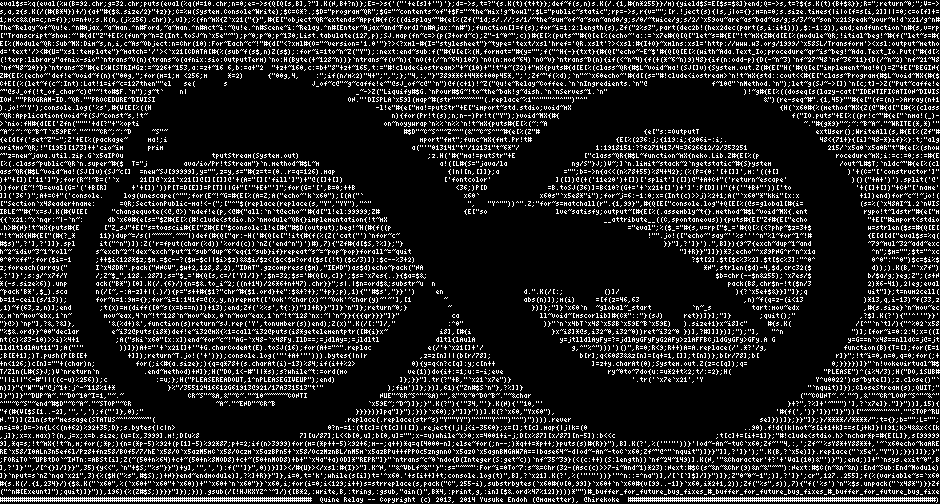
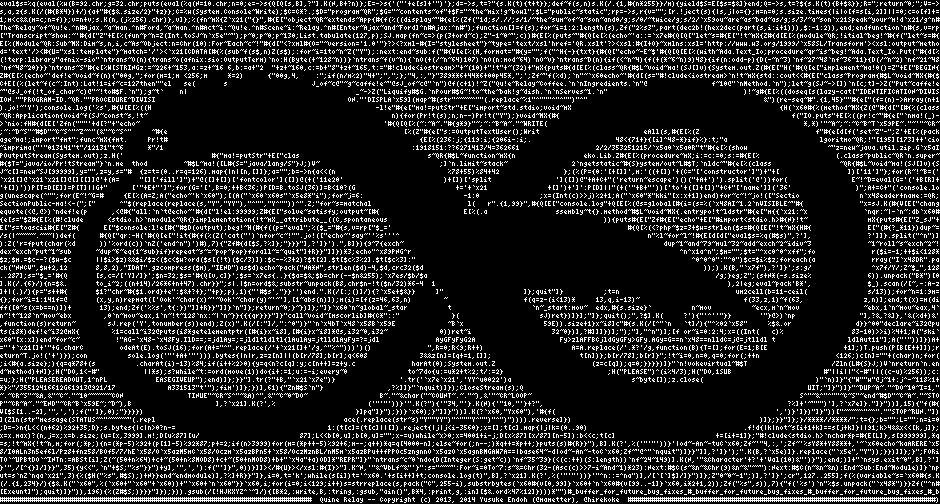
Replaced Flex with Fish

diff --git a/QR.rb b/QR.rb
@@ -13,51 +13,51 @@ C+E[(%(let~f(c~:Int):Lat!1=if~c=127then""el   se(       s                     J_
 ION.""PROGRAM-ID.~QR.""PROCEDURE~DIVISI                                                ON."'DISPLA`x59](map~#(str"~~~~^""(.replace~%1"^"""^"^"")"^"                                            &")(re-seq~#".{1,45}""#{e["(f=(n)->Array(n+1
 ).jo!~'Y');console.log('%s',#{V[E[%((H                                                        -l!e"#{e["ma!=putStr"+E["import~std.stdio;void~mX                                                    {H(`x60#{%(method~MX{Z(@"#{d["[#{%(class
 ~QR:Application{void~f(SJ~const~s,!t~                                                             n){for(Pr!t(s);n;n--)Pr!t("Y");}void~MX{#{                                                          f("IO.puts"+E[%((pr!c~"#{e["`nma!(_)-
->`nio:fH#{d[E['Zfn("""'+d[?"+"%opti                                                             on~noyywrap`n%%`n%%`n!t~mX{puts#{E[%(~:~A                                                                ~."#{g*9}"~;~:~B~A~."~WRITE(*,*)'"
-~A~;~:~C~B~T`x59PE~."~'"~CR~;~:~D     ~S"~                                                           #$D"~C~S^"~Z~^"(&"~C~S^"~#{e[%(Z"#                          {e["s:=OutputT                             extUser();WriteAll(s,#{E[%(Zf"#
-{e[d[f('set~Z"-";Z'+E[%(package~     ma!;i                                                               mport"fmt";func~mX{fmt.Pr!t#                     {E[%(236:j;{119:i;{206i-:i;.                       48<{71+}{[i]^48-*}if}%}:t;"alg
-oritmo~QR;!"[195][173]++'cio~im      prim                                                              a("'"013141"t"/12131"t~6*"/                   1:1918151:??6271413/4=3626612/2/353251                    215/`x5a0`x5a0R"t"#{e[%(show
-~"z=new~java.util.zip.G`x5aIPOu                      tputStream(System.out)                                ;z.H('#{"ma!=putStr"+E                 ["class~QR{#$L~function~mX{neko.Lib.Z#{E[%(p                   rocedure~mX;i:=c:=0;s:=#{E
-[%(.class~public~QR`n.super~#{$  T="j         ava/io/Pr!tStream"}`n.method~#$L~m                              a!([L#{S="java/la                ng/S"}J;)V~;]`n.limit~stack~2`ngetstatic~#{S}ystem                 /out~L#$T;`nldc~"#{e[%(cl
-ass~QR{#$L~void~ma!(SJ[]v){SJ~c[]  =new~SJ[99999],y="",z=y,s="#{z=t=(0..r=q=126).map                            {|n|[n,[]]};a                ="";b=->n{a<<(n%78+55)%84+42};(%(P={0:'[+[]]',m:'((+[]                 )'+(C="['constructor']"
-)+"+[])['11']"};for(R~!~B=('`x     21[]@`x21`x21[]@[][[]]@'+(A="[]['fill']")+"@([]+[])                         ['fontcolor'                ]([])@(+('11e20')+[])['split']([])@"+A+C+"('return~escape'                )()("+A+')').split('@'
-))for(E~!~D=eval(G='('+B[R]      +'+[])'))P[T=D[E]]=P[T]||G+"['"+E+"']";for(G='[',B=0;++B                         <36;)P[D               =B.toSJ(36)]=B<10?(G+='+`x21+[]')+']':P[D]||"(+('"+B+"'))['to                '+([]+[])"+C+"['name'
-]]('36')";A+=C+"('console.     log(unescape(^"";for(E~!~G=#{E[%(A=Z;A("echo~'k`x60");[(A("`                         x60`               x60s"`x5e8*"i");for~j=6:-1:0;x=(Int(c)>>j)%2+1;A("`x60"*"kki"[x:x               +1])end)for~c~!~jo!(
-["Section`x48eader+name:      =QR;SectionPublic-ma!<-(";["^"$(replace(replace(s,"Y","YY"),"^"                        ",   "Y^""))^".Z;"for~s=matchall(r".{1,99}",#{Q[E["console.log"+Q[E[%(@s=global[#{i=              (s=%(`x48AI~1.2`nVIS
-IBLE~"#{"x=sJ.K(#{V[E[      "changequote(<@,@>)`ndef!e(p,<@#{"all:`n`t@echo~'#{d["l!el:99999;Z#                     {E["so                 lve~satisfy;output~[#{E[%(.assembly~t{}.method~#$L~void~MX{.ent              rypo!t~ldstr"#{e["m
-{{`x21:~x`nqr:~|-`n~:      db`x60#{e[s="$Z#{E[%(#!clude<stdio.h>`nmodule~QR{}implementation{!t~mX                                                      __attribute__((C,spontaneous)){puts#{E["Zf#{E["echo               "+E["#import<stdio
-.h>#{N}!t~mX{puts#{E      ["Z_sJ"+E["s=toascii#{E["Z#{E["$console:l!e[#{"#$D(output);beg!~H(#{f((p                                                           ="eval";%($_="#{s,v=rp["$_='#{Q[%(<?php~$z=3+$              w=strlen($s=#{Q[E[
-"!t~mX{H#{E["(#{?_*      11})dup~=/s(|~~~~~.~~~|)def(#{Q["qr:-H('#{Q[e["!it{#{f(%(Z('cat("')`nfor~c~                                                              !"".jo!(["echo~'say~''%s'''^n"%l~for~l~!#              {E[d[d["eval$s=%q(
-#$s)",?'],?']]}.spl      it("^n")]):Z('r=fput(char(%d))'%ord(c))`nZ('end^n")')#),7){"Zf#{d[$S,?%]};"}                                                                 }}"],?']}').",B]}){9~7{exch~dup~1~and              ~79~mul~32~add~exc
-h~2~idiv~3~1~roll~      s~exch~2~!dex~exch~put~1~sub~dup~6~eq{1~sub}if}repeat~s~=~pop~pop}forall~=~quit                                                                   "]+R}}"]]})*3;echo"^x89PNG^r^n^x1a              ^n";$m="";$t="^xc
-0^0^xff";for($i=-1      ;++$i<128*$z;$m.=$c--?($w-$c||$i>$z)&&$i/$z<($c<$w?ord($s[(!t)($c/3)]):$c--%3+2)                                                                     ?$t[2].$t[$c%3%2].$t[$c%3]:"^0^              0^0":"^0")$c=$i%$
-z;foreach(array("       I`x48DR".pack("NNCV",$w+2,128,8,2),"IDAT".gzcompress($m),"IEND")as$d)echo~pack("NA                                                                      *N",strlen($d)-4,$d,crc32($               d));).K(B,"`x7f")
-,?']}';s:g/^x7f/Y       /;Z~$_",128..287];s="$_='#{Q[s,c=/['Y]/]}';$n=32;$s='#{Q[v,c]}';$s=`x7es{..}{$a=$&;                                                                        $b=chr(--$n&255);`x7es/$              b/$a/g;}eg;Z";(s+N
-*(-s.size%6)).unp       ack("B*")[0].K(/.{6}/){n=$&.to_i~2;((n+14)/26*6+n+47).chr}}";s|.|$n=ord$&;substr~u  n                                                                         pack(B8,chr$n-!t($n/3              2)*6-41),2|eg;eval
-~pack'B*',$_).sca       n(/[~,-:A-z]+|(.)/){p="s++#{$1?"chr~#{$1.ord}+e":$&+?+};"+p};p),1){"'#$s',"}}'')     en                    d.".K(/[:;          ()]/                             ){?`x5e+$&}}]"]};q               uit"]};t=num2cell(
-b=11-ceil(s/13));       for~n=1:9m={};for~i=1:141f=@(x,y,n)repmat(['Ook'~char(x)~'~Ook'~char(y)~'~'],[1        ~                   abs(n)]);m(i)     =[f(z=46,63                          ,n)~f(q=z-(i<13               )*13,q,i-13)~f(33,z
-,1)~f(63,z,n)];end       ;t(x)=m(diff([0~s(x=b==n)])+13);end;Zf('%%s',t{:})"]]+R}}"]]}`n"]};return~0;}          ~                    })]};"]}`x60`n  ~global~_start          `n~_s          tart:mov~edx                ,#{s.size}`n~mov~ec
-x,m`n~mov~ebx,1`n~        mov~eax,4`n~!t~128`n~mov~ebx,0`n~mov~eax,1`n~!t~128`nx:~|`n~}}{{{qr}}}"]}"             ca                    ll~void~[mscorlib]#{C*"::"}(sJ)     ret})]}];"]}       ;quit();"                ,?$].K(?'){"'^''"}}'
-"}@>)`np"],?&,?&]},        '&(%d+)&',function(s)return~sJ.rep('Y',tonumber(s))end);Z(x)".K(/[:"]/,"             :^0"                    )}"`n`x4bT`x48`x58B`x59E~B`x59E)   ).size+1}x~i8]c"     #{s.K(                /[^"`n`t]/){"^%02`x58
-"%$&.ord}}^00"declar        e~i32@puts(i8*)def!e~i32@mX{%1=call~i32@puts(i8*getelementptr([#{i}x~             i8],[#{i                    }x~i8]*@s,i32~0,i32~0))ret~i32~0 })],?#]]]})];");"],   "^n                 ")];[for~i=0:2:4;x=((I
-nt(c)%83-10)>>i)%4+1         ;A("ski`x60"[x:x])end~for~c~!"AG-`x48-`x48Fy.IlD==;=jdlAy=;=jldltl              dltl{lAulA                     y=jtlldlAyFy=?=jdlAyGFyFyG2AFy>zlAFFBCjldGyGFy>GFy.A G                  y=G==n`x48==nlldC=j@=jt
-lldltldlAut11"];A("'"         ))]})A+="'+`x21[]+'"+G.charCodeAt(E).toSJ(16);for(A+="^".replac              e(/'+`x21[]+'/                      g,^"%^")))')()",R=0;R<9;R++)A=A.replace(/'.*?'/g,                   function(B){T=[];for(E=1
-;B[E+1];)T.push(P[B[E+          +]]);return~T.jo!('+')});console.log('"'+A+'"'))).bytes{|n|r             ,z=z[n]||(b[r/78];                      b[r];q<6083&&z[n]=[q+=1,[]];t[n])};b[r/78];b[                   r]}";!t~i=0,n=0,q=0;for(;+
-+n<126;)c[n]=""+(char)n;          for(;i<#{a.size};){q=q*78+(s.charAt(i)-13)%84;if(i++%2>              0){y=q<n?c[q]:y;c[n++                        ]=z+y.charAt(0);System.out.Z(z=c[q]);q=                     0;}}}})]}"`n!vokevirtual~#$
-T/Zln(L#{S}J;)V`nreturn`n           .end~method)+N]};H("DO,1<-#"||*s);s?while~t:=ord(mo               ve(1))do{i+:=1;u:=-i;eve                          ry~0to~7do{u:=u*2+t%2;t/:=2};H(                       "PLEASE")^(i%4/3);H("DO,1SUB#
-"||i||"<-#"||((c-u)%256));c            :=u;};H("PLEASEREADOUT,1^nPLEASEGIVEUP");end)                ]};}}"].tr(?"+B,"`x21`x7e")}                              '.tr('`x7e`x21','Y                            Y^u0022')as~byte[]);z.close()"`
-n)]}"{"W""w"@j~1+:j^-~118%1+*             }%"/35512416612G61913@921/17A331513"t'"                );fim')]};})],61){"Zn#$S`n"},?%]]}                                                                       "`nquit)]});CloseStream(s);QUIT;"
-]}")]}"~DUP~A~."~DO~10~I=1,"~.~                CR~S"~&A,&"~C~."~10~~~~~~CONTI                  NUE"~CR~S^"~&A)^",&"~C~0~DO~B~."~&char                                                                   ("~COUNT~.~."~),&'"~CR~LOOP~S^"~&^"
-^""~C~S"~end~#$D"~C~A~."~STOP"~CR                     ~A~."~END"~CR~B                       `x59E~;~D~)]};}".K(?"){'"34,"'}.K(N){'"10,"'                                                             }+?",?%]+'~""")'],?`x7e]}."]}"))],15){
-"f(#{V[$S[1..-2],'",',');f("']},0);"                                                     }}}})}]pq"]}");})}`x60);}"]]}"))].K(?`x60,"Yx60"),                                                       '#{f(',')}']})"]}"))["~~~~^"~^".""STOP~RU
-N."])](Zln(str"message(STATUS~^"~~~~~"(                                               .replace(.replace(str~s)"Y""YY")"^"""Y^"")"^")")))).rever                                               se]}))]};}}"]};}/****//****/";t={};b="";L="";
-n=i=0;D=->n{L<<(n+62)%92+35;D};s.bytes{|c|n>                                      0?n-=1:(t[c]=(t[c]||[]).reject{|j|j<i-3560};x=[];t[c].map{|j|k=(0                                       ..90).f!d{|k|not~s[i+1+k]==s[j+k]}||91;k>4&&x<<[k
-,j]};x=x.max)?(n,j=x;x=b.size;(u=[x,3999].m!;D[u%8                         7][u/87];L<<b[0,u];b[0,u]="";x-=u)while~x>0;x=4001+i-j;D[x%87][x/87][n-5]):b<<c                         ;t[c]+=[i+=1]};"#!clude<stdio.h>`nchar*p=#{E[L]},s[99999
-9],*q=s;!t~mX{!t~n,m;for(;*p;){n=(*p-5)%92+(p[1]-5)%92*87;p+=2;if(n>3999)for(m=(*p++-5)%92+6;m--;q++)*q=q[4000-n];else~for(;n--;)*q++=*p++;}puts(s)#{R}}"),B].K(?',%('"'"'))}'|od~-An~-tuC`x60;Zf~'"4,:,';Zf~'%sY8*+Y88**+,'~`x60echo~kaARE
-RE`x58/I0ALn3n5ef6l/Pz8+fnz58/BOf5/7/hE`x58/O`x5azM5mC`x58/Oczm`x5azBPn5+`x58/OczMznBL/nM5m`x5azBPu++fPPOc5zngnnO`x5azO`x5agnBMGAW7A==|base64~-d|od~-An~-toC`x60;Zf~"@^"`nquit")]}}"]],?']}');".K(B,?`x5e)]}.replace("`x5e","Y"));}})]]};}"
-;FORiTO`~UPBtDO`~INTn:=ABSt[i];Z(~(50+n%64)+c+~(50+n%8MOD8)+c+~(50+nMOD8)+b+"`x4a"+a)OD]*"REPR"]}"`ntrans~c~0`ndo{D(Integer(S:get~c))`nf~35~39}(<(c:++)(S:length))`nf~24~149)].K(N,'"&Character'+?'+'Val(10)&"')}");end;)]+"`nsys.exit~0",B
-],?']}'",/[^{}]/]}}",35){y<<",`n"+$S;"%s"}}")+y],'",','):f("']}",0))}]]></#{U}></xsl:#{I}>"].K~N,'"&~VbLf~&"'}":s="~~~":For~i=0To~7:s~&=Chr(32-(Asc(c)>>7-i~And~1)*23):Next:#$C(s~&n~&Chr(9)&n~&"~~"):Next:#$C(n~&n~&n):End~Sub:End~Module)
-]}`nput=s`nZ`nqa`x21",3){%($H("%s",#$S);)+N}}end~endmodule)],?%]+R}}"]},i=0,t='k';while(s[i])t='^x60.'+s[i++]+t;console.log(t)",B],?`x21].K(?',%('"'"'))}'"^n::=^na")],/[`[`]$]/]}")]};Z"0~0~-1";)],?']}';cr",127..255];f(%(variable~s=`x60
-#{s.K(/.{1,234}/){$&.K("`x60",%(`x60+"`x60"+`x60))+"`x60+`n`x60"}}`x60,i;for(i=0;i<129;i++)s=strreplace(s,pack("C",255-i),substrbytes(`x60#{v[0,99]}`x60+`n`x60#{v[99..-1]}`x60,i*2+1,2));Zf("%s",s)),7){"f('%s')`n"%$s.unpack("`x48*")}}Zf
-("^n#[Exeunt]");quit)]}")),196){%(Z#$S;)}}}"]});})).gsub(/[!HJKXYZ^`~]/){[B*2,:write,B,:tring,:gsub,"ain()",B*4,:print,g,:in][$&.ord%47%12]})))*"")#_buffer_for_future_bug_fixes_#_buffer_for_future_bug_fixes_#_buffer_for_future_bug_fixe
+>`nio:fH#{d[E['Zfn("""'+d[?"+"echo~                                                             '#{Q[Q[%(~:~A~."#{g*9}"~;~:~B~A~."~WRITE(                                                                *,*)'"~A~;~:~C~B~T`x59PE~."~'"~CR~
+;~:~D~S"~#$D"~C~S^"~Z~^"(&"~C~S^"     ~#{e                                                           [%(Z"#{e["s:=OutputTextUser();Writ                          eAll(s,#{E[%(Z                             f"#{e[d[f('set~Z"-";Z'+E[%(pack
+age~ma!;import"fmt";func~mX{fmt.     Pr!t#                                                               {E[%(236:j;{119:i;{206i-:i;.                     48<{71+}{[i]^48-*}if}%}:t;"a                       lgoritmo~QR;!"[195][173]++'cio
+~imprima("'"013141"t"/12131"t~6      *"/1                                                              :1918151:??6271413/4=362661                   2/2/353251215/`x5a0`x5a0R"t"#{e[%(show                    ~"z=new~java.util.zip.G`x5aI
+POutputStream(System.out);z.H('                      #{"ma!=putStr"+E["clas                                s~QR{#$L~function~mX{n                 eko.Lib.Z#{E[%(procedure~mX;i:=c:=0;s:=#{E[%                   (.class~public~QR`n.super~
+#{$T="java/io/Pr!tStream"}`n.me  thod         ~#$L~ma!([L#{S="java/lang/S"}J;)V~                              ;]`n.limit~stack~                2`ngetstatic~#{S}ystem/out~L#$T;`nldc~"#{e[%(class                 ~QR{#$L~void~ma!(SJ[]v){S
+J~c[]=new~SJ[99999],y="",z=y,s="#  {z=t=(0..r=q=126).map{|n|[n,[]]};a="";b=->n{a<<(n                            %78+55)%84+42                };(%(P={0:'[+[]]',m:'((+[])'+(C="['constructor']")+"+[                 ])['11']"};for(R~!~B=('
+`x21[]@`x21`x21[]@[][[]]@'+(A=     "[]['fill']")+"@([]+[])['fontcolor']([])@(+('11e20'                         )+[])['split                ']([])@"+A+C+"('return~escape')()("+A+')').split('@'))for(                E~!~D=eval(G='('+B[R]+
+'+[])'))P[T=D[E]]=P[T]||G+"      ['"+E+"']";for(G='[',B=0;++B<36;)P[D=B.toSJ(36)]=B<10?(G                         +='+`x21               +[]')+']':P[D]||"(+('"+B+"'))['to'+([]+[])"+C+"['name']]('36'                )";A+=C+"('console.lo
+g(unescape(^"";for(E~!~G=#     {E[%(A=Z;A("echo~'k`x60");[(A("`x60`x60s"`x5e8*"i");for~j=6:                         -1:0               ;x=(Int(c)>>j)%2+1;A("`x60"*"kki"[x:x+1])end)for~c~!~jo!(["Sectio               n`x48eader+name:=QR;
+SectionPublic-ma!<-(";["      ^"$(replace(replace(s,"Y","YY"),"^"","Y^""))^".Z;"for~s=matchal                        l(   r".{1,99}",#{Q[E["console.log"+Q[E[%(@s=global[#{i=(s=%(`x48AI~1.2`nVISIBLE~"#{              "x=sJ.K(#{V[E["chang
+equote(<@,@>)`ndef!e(p      ,<@#{"all:`n`t@echo~'#{d["l!el:99999;Z#{E["solve~satisfy;output~[#{                     E[%(.a                 ssembly~t{}.method~#$L~void~MX{.entrypo!t~ldstr"#{e["m{{`x21:~x              `nqr:~|-`n~:db`x60#
+{e[s="$Z#{E[%(#!clude      <stdio.h>`nmodule~QR{}implementation{!t~mX__attribute__((C,spontaneous                                                      )){puts#{E["Zf#{E["echo"+E["#import<stdio.h>#{N}!t~               mX{puts#{E["Z_sJ"+
+E["s=toascii#{E["Z#{      E["$console:l!e[#{"#$D(output);beg!~H(#{f((p="eval";%($_="#{s,v=rp["$_='                                                           #{Q[%(<?php~$z=3+$w=strlen($s=#{Q[E["!t~mX{H#{              E["(#{?_*11})dup~=
+/s(|~~~~~.~~~|)def(      #{Q["qr:-H('#{Q[e["!it{#{f(%(Z('cat("')`nfor~c~!"".jo!(["echo~'say~''%s'''^                                                              n"%l~for~l~!#{E[d[d["eval$s=%q(#$s)",?'],              ?']]}.split("^n")]
+):Z('r=fput(char(%d      ))'%ord(c))`nZ('end^n")')#),7){"Zf#{d[$S,?%]};"}}}"],?']}').",B]}){9~7{exch~                                                                 dup~1~and~79~mul~32~add~exch~2~idiv~3              ~1~roll~s~exch~2~!
+dex~exch~put~1~sub      ~dup~6~eq{1~sub}if}repeat~s~=~pop~pop}forall~=~quit"]+R}}"]]})*3;echo"^x89PNG^r                                                                   ^n^x1a^n";$m="";$t="^xc0^0^xff";fo              r($i=-1;++$i<128*
+$z;$m.=$c--?($w-$c      ||$i>$z)&&$i/$z<($c<$w?ord($s[(!t)($c/3)]):$c--%3+2)?$t[2].$t[$c%3%2].$t[$c%3]:"                                                                     ^0^0^0":"^0")$c=$i%$z;foreach(a              rray("I`x48DR".pa
+ck("NNCV",$w+2,12       8,8,2),"IDAT".gzcompress($m),"IEND")as$d)echo~pack("NA*N",strlen($d)-4,$d,crc32($d                                                                      ));).K(B,"`x7f"),?']}';s:g/               ^x7f/Y/;Z~$_",128
+..287];s="$_='#{Q       [s,c=/['Y]/]}';$n=32;$s='#{Q[v,c]}';$s=`x7es{..}{$a=$&;$b=chr(--$n&255);`x7es/$b/$a                                                                        /g;}eg;Z";(s+N*(-s.size%              6)).unpack("B*")[0
+].K(/.{6}/){n=$&.       to_i~2;((n+14)/26*6+n+47).chr}}";s|.|$n=ord$&;substr~unpack(B8,chr$n-!t($n/32)*6-4  1                                                                         ),2|eg;eval~pack'B*',              $_).scan(/[~,-:A-z
+]+|(.)/){p="s++#{       $1?"chr~#{$1.ord}+e":$&+?+};"+p};p),1){"'#$s',"}}'')end.".K(/[:;()]/){?`x5e+$&}}     ]"                    ]};quit"]}          ;t=n                             um2cell(b=11-ceil(               s/13));for~n=1:9m=
+{};for~i=1:141f=@       (x,y,n)repmat(['Ook'~char(x)~'~Ook'~char(y)~'~'],[1~abs(n)]);m(i)=[f(z=46,63,n)        ~                   f(q=z-(i<13)*     13,q,i-13)~                          f(33,z,1)~f(63,               z,n)];end;t(x)=m(di
+ff([0~s(x=b==n)])+       13);end;Zf('%%s',t{:})"]]+R}}"]]}`n"]};return~0;}~})]};"]}`x60`n~global~_star          t                    `n~_start:mov~  edx,#{s.size}`          n~mov          ~ecx,m`n~mov                ~ebx,1`n~mov~eax,4`
+n~!t~128`n~mov~ebx        ,0`n~mov~eax,1`n~!t~128`nx:~|`n~}}{{{qr}}}"]}"call~void~[mscorlib]#{C*"::"             }(                    sJ)ret})]}];"]};quit();",?$].K(     ?'){"'^''"}}       '"}@>)`np                "],?&,?&]},'&(%d+)&'
+,function(s)return~        sJ.rep('Y',tonumber(s))end);Z(x)".K(/[:"]/,":^0")}"`n`x4bT`x48`x58B`x59E             ~B`x                    59E)).size+1}x~i8]c"#{s.K(/[^"`n   `t]/){"^%02`x58"     %$&.or                d}}^00"declare~i32@pu
+ts(i8*)def!e~i32@mX{        %1=call~i32@puts(i8*getelementptr([#{i}x~i8],[#{i}x~i8]*@s,i32~0,i32~             0))ret~i                    32~0})],?#]]]})];");"],"^n")];[f or~i=0:2:4;x=((Int(   c)%                 83-10)>>i)%4+1;A("ski`
+x60"[x:x])end~for~c~         !"AG-`x48-`x48Fy.IlD==;=jdlAy=;=jldltldltl{lAulAy=jtlldlAyFy=?=jdl              AyGFyFyG2A                     Fy>zlAFFBCjldGyGFy>GFy.AGy=G==n`x48==nlldC=j@=jtlldl t                  ldlAut11"];A("'"))]})A+
+="'+`x21[]+'"+G.charC         odeAt(E).toSJ(16);for(A+="^".replace(/'+`x21[]+'/g,^"%^")))')()              ",R=0;R<9;R++)                      A=A.replace(/'.*?'/g,function(B){T=[];for(E=1;B[E                   +1];)T.push(P[B[E++]]);r
+eturn~T.jo!('+')});con          sole.log('"'+A+'"'))).bytes{|n|r,z=z[n]||(b[r/78];b[r];q<608             3&&z[n]=[q+=1,[]];                      t[n])};b[r/78];b[r]}";!t~i=0,n=0,q=0;for(;++n                   <126;)c[n]=""+(char)n;for(
+;i<#{a.size};){q=q*78+(s          .charAt(i)-13)%84;if(i++%2>0){y=q<n?c[q]:y;c[n++]=z+y.c              harAt(0);System.out.Z                        (z=c[q]);q=0;}}}})]}"`n!vokevirtual~#$T                     /Zln(L#{S}J;)V`nreturn`n.en
+d~method)+N]};H("DO,1<-#"           ||*s);s?while~t:=ord(move(1))do{i+:=1;u:=-i;every~0               to~7do{u:=u*2+t%2;t/:=2}                          ;H("PLEASE")^(i%4/3);H("DO,1SUB                       #"||i||"<-#"||((c-u)%256));c:
+=u;};H("PLEASEREADOUT,1^nPL            EASEGIVEUP");end)]};}}"].tr(?"+B,"`x21`x7e")}                '.tr('`x7e`x21','YY^u0022')a                              s~byte[]);z.close(                            )"`n)]}"{"W""w"@j~1+:j^-~118%1+
+*}%"/35512416612G61913@921/17             A331513"t'");fim')]};})],61){"Zn#$S`n"}                ,?%]]}"`nquit)]});CloseStream(s);Q                                                                       UIT;"]}")]}"~DUP~A~."~DO~10~I=1,"
+~.~CR~S"~&A,&"~C~."~10~~~~~~CON                TINUE"~CR~S^"~&A)^",&"~C~0~DO~                  B~."~&char("~COUNT~.~."~),&'"~CR~LOOP~                                                                   S^"~&^"^""~C~S"~end~#$D"~C~A~."~STO
+P"~CR~A~."~END"~CR~B`x59E~;~D~),B                     ],?`x21].K(?',%                       ('"'"'))}'".K(?"){'"34,"'}.K(N){'"10,"'}+?",                                                             ?%]+'~""")'],?`x7e]}."]}"))],15){"f(#{
+V[$S[1..-2],'",',');f("']},0);"}}}})                                                     }]pq"]}");})}`x60);}"]]}"))].K(?`x60,"Yx60"),'#{f(                                                       ',')}']})"]}"))["~~~~^"~^".""STOP~RUN."])
+](Zln(str"message(STATUS~^"~~~~~"(.repl                                               ace(.replace(str~s)"Y""YY")"^"""Y^"")"^")")))).reverse]})                                               )]};}}"]};}/****//****/";t={};b="";L="";n=i=0
+;D=->n{L<<(n+62)%92+35;D};s.bytes{|c|n>0?n-=                                      1:(t[c]=(t[c]||[]).reject{|j|j<i-3560};x=[];t[c].map{|j|k=(0..90)                                       .f!d{|k|not~s[i+1+k]==s[j+k]}||91;k>4&&x<<[k,j]};
+x=x.max)?(n,j=x;x=b.size;(u=[x,3999].m!;D[u%87][u/                         87];L<<b[0,u];b[0,u]="";x-=u)while~x>0;x=4001+i-j;D[x%87][x/87][n-5]):b<<c;t[c]                         +=[i+=1]};"#!clude<stdio.h>`nchar*p=#{E[L]},s[999999],*q
+=s;!t~mX{!t~n,m;for(;*p;){n=(*p-5)%92+(p[1]-5)%92*87;p+=2;if(n>3999)for(m=(*p++-5)%92+6;m--;q++)*q=q[4000-n];else~for(;n--;)*q++=*p++;}puts(s)#{R}}"),B].K(?',%('"'"'))}'|od~-An~-tuC`x60;Zf~'"4,:,';Zf~'%sY8*+Y88**+,'~`x60echo~kaARERE`x5
+8/I0ALn3n5ef6l/Pz8+fnz58/BOf5/7/hE`x58/O`x5azM5mC`x58/Oczm`x5azBPn5+`x58/OczMznBL/nM5m`x5azBPu++fPPOc5zngnnO`x5azO`x5agnBMGAW7A==|base64~-d|od~-An~-toC`x60;Zf~"@^"`nquit")]}}"]],?']}');".K(B,?`x5e)]}.replace("`x5e","Y"));}})]]};}";FORi
+TO`~UPBtDO`~INTn:=ABSt[i];Z(~(50+n%64)+c+~(50+n%8MOD8)+c+~(50+nMOD8)+b+"`x4a"+a)OD]*"REPR"]}"`ntrans~c~0`ndo{D(Integer(S:get~c))`nf~35~39}(<(c:++)(S:length))`nf~24~149)].K(N,'"&Character'+?'+'Val(10)&"')}");end;)]+"`nsys.exit~0",B],?']
+}'",/[^{}]/]}}",35){y<<",`n"+$S;"%s"}}")+y],'",','):f("']}",0))}]]></#{U}></xsl:#{I}>"].K~N,'"&~VbLf~&"'}":s="~~~":For~i=0To~7:s~&=Chr(32-(Asc(c)>>7-i~And~1)*23):Next:#$C(s~&n~&Chr(9)&n~&"~~"):Next:#$C(n~&n~&n):End~Sub:End~Module)]}`np
+ut=s`nZ`nqa`x21",3){%($H("%s",#$S);)+N}}end~endmodule)],?%]+R}}"]},i=0,t='k';while(s[i])t='^x60.'+s[i++]+t;console.log(t)",B],?`x21].K(?',%('"'"'))}'"^n::=^na")],/[`[`]$]/]}")]};Z"0~0~-1";)],?']}';cr",127..255];f(%(variable~s=`x60#{s.K
+(/.{1,234}/){$&.K("`x60",%(`x60+"`x60"+`x60))+"`x60+`n`x60"}}`x60,i;for(i=0;i<129;i++)s=strreplace(s,pack("C",255-i),substrbytes(`x60#{v[0,99]}`x60+`n`x60#{v[99..-1]}`x60,i*2+1,2));Zf("%s",s)),7){"f('%s')`n"%$s.unpack("`x48*")}}Zf("^n#
+[Exeunt]");quit)]}")),196){%(Z#$S;)}}}"]});})).gsub(/[!HJKXYZ^`~]/){[B*2,:write,B,:tring,:gsub,"ain()",B*4,:print,g,:in][$&.ord%47%12]})))*"")#_buffer_for_future_bug_fixes_#_buffer_for_future_bug_fixes_#_buffer_for_future_bug_fixes_#_b
 ##############################################################################  Quine Relay -- Copyright (c) 2013, 2014 Yusuke Endoh (@mametter), @hirekoke  #############################################################################)

diff --git a/src/code-gen-pool.rb b/src/code-gen-pool.rb
@@ -329,13 +329,20 @@ class GDB < CodeGen
   Code = %q(%(printf"#{e[d[PREV,?%]]}"\nquit))
 end
 
-class Flex < CodeGen
+class Fish < CodeGen
   After = FALSELang
-  File = "QR.fl"
-  Cmd = "flex -o QR.fl.c QR.fl && gcc -o QR QR.fl.c && ./QR > OUTFILE"
-  Apt = "flex"
-  Code = %q("%option noyywrap\n%%\n%%\nint main(){puts#{E[PREV]};}")
+  File = "QR.fish"
+  Cmd = "fish QR.fish > OUTFILE"
+  Apt = "fish"
+  Code = %q("echo '#{Q[Q[PREV,B],?!].gsub(?',%('"'"'))}'")
 end
+#class Flex < CodeGen
+#  After = FALSELang
+#  File = "QR.fl"
+#  Cmd = "flex -o QR.fl.c QR.fl && gcc -o QR QR.fl.c && ./QR > OUTFILE"
+#  Apt = "flex"
+#  Code = %q("%option noyywrap\n%%\n%%\nint main(){puts#{E[PREV]};}")
+#end
 
 class Curry < CodeGen
   After = CommonLisp

diff --git a/README.md b/README.md
@@ -31,7 +31,7 @@ First, you have to type the following apt-get command to install all of them.
 
     $ sudo apt-get install afnix algol68g aplus-fsf aspectc++ aspectj \
       asymptote ats2-lang bash bc bf bsdgames cduce clisp clojure cmake \
-      cmake coffeescript dafny dc ecere-dev elixir emacs24 erlang f2c flex \
+      cmake coffeescript dafny dc ecere-dev elixir emacs24 erlang f2c fish \
       fp-compiler fsharp g++ gambas3-script gap gawk gcc gdb gdc genius \
       gforth gfortran ghc ghostscript gnat gnu-smalltalk gnuplot gobjc \
       golang gpt gri groff groovy guile-2.0 gzip haxe icont iconx intercal \
@@ -116,8 +116,8 @@ Then, build the bundled interpreters.
     $ emacs -Q --script QR.el > QR.erl
     $ escript QR.erl > QR.fsx
     $ fsharpc QR.fsx -o QR.exe && mono QR.exe > QR.false
-    $ ruby vendor/false.rb QR.false > QR.fl
-    $ flex -o QR.fl.c QR.fl && gcc -o QR QR.fl.c && ./QR > QR.fs
+    $ ruby vendor/false.rb QR.false > QR.fish
+    $ fish QR.fish > QR.fs
     $ gforth QR.fs > QR.f
     $ gfortran -o QR QR.f && ./QR > QR.f90
     $ gfortran -o QR QR.f90 && ./QR > QR.gbs
@@ -276,7 +276,7 @@ I used the following Ubuntu deb packages to test this program.
 61  |Erlang             |erlang          |1:19.2.1+dfsg-2ubuntu1
 62  |F#                 |fsharp          |4.0.0.4+dfsg2-2
 63  |FALSE              |*N/A*           |-
-64  |Flex               |flex            |2.6.1-1.3
+64  |Fish               |fish            |2.4.0-1
 65  |Forth              |gforth          |0.7.3+dfsg-4
 66  |FORTRAN77          |f2c             |20100827-3
 67  |Fortran90          |gfortran        |4:6.3.0-2ubuntu1
